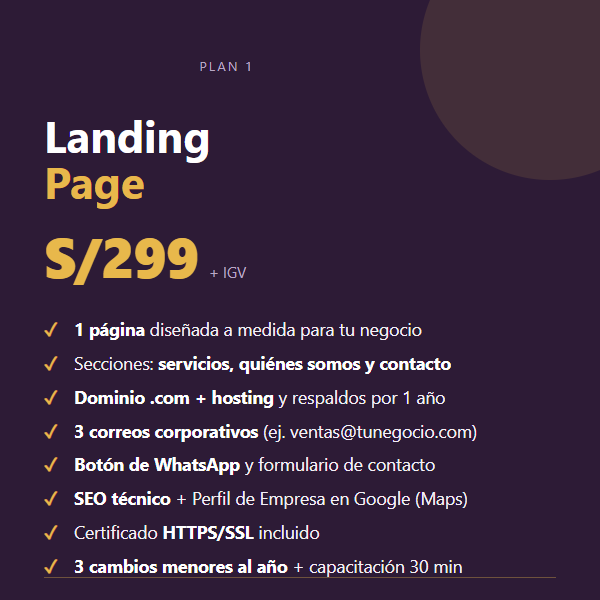
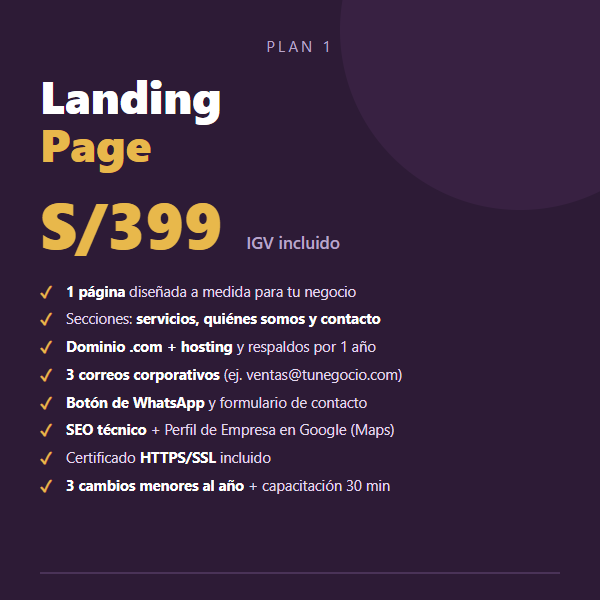
Imagenes de planes v2 (S/399/599/799 IGV incluido) + generador

diff --git a/assets/marketing/planes-v2.html b/assets/marketing/planes-v2.html
@@ -1,0 +1,69 @@
+<!doctype html><html lang="es"><head><meta charset="utf-8">
+<style>
+*{margin:0;padding:0;box-sizing:border-box}
+body{background:#111;display:flex;gap:24px;padding:24px;flex-wrap:wrap}
+.card{width:600px;height:600px;background:#2D1B36;position:relative;overflow:hidden;font-family:'Segoe UI',Arial,sans-serif;padding:36px 40px 28px;display:flex;flex-direction:column}
+.circle{position:absolute;width:360px;height:360px;border-radius:50%;background:#382142;top:-150px;right:-100px}
+.plan{color:#B9A6C9;font-size:15px;letter-spacing:3px;text-align:center;margin-bottom:16px;position:relative}
+.title{font-size:46px;font-weight:800;color:#fff;line-height:1.04;position:relative}
+.title span{color:#E8B84B}
+.price{font-size:64px;font-weight:800;color:#E8B84B;margin:12px 0 16px;position:relative}
+.price small{font-size:17px;color:#B9A6C9;font-weight:600;margin-left:6px}
+ul{list-style:none;position:relative}
+li{color:#E4D8EE;font-size:14.6px;line-height:1.42;margin-bottom:7px;padding-left:26px;position:relative}
+li:before{content:"\2713";position:absolute;left:0;top:0;color:#E8B84B;font-weight:800;font-size:16px}
+li b{color:#FFFFFF}
+.line{position:absolute;left:40px;right:40px;bottom:26px;height:2px;background:#4A3358}
+</style></head><body>
+<div class="card" id="c1">
+  <div class="circle"></div>
+  <div class="plan">PLAN 1</div>
+  <div class="title">Landing<br><span>Page</span></div>
+  <div class="price">S/399 <small>IGV incluido</small></div>
+  <ul>
+    <li><b>1 p&aacute;gina</b> dise&ntilde;ada a medida para tu negocio</li>
+    <li>Secciones: <b>servicios, qui&eacute;nes somos y contacto</b></li>
+    <li><b>Dominio .com + hosting</b> y respaldos por 1 a&ntilde;o</li>
+    <li><b>3 correos corporativos</b> (ej. ventas@tunegocio.com)</li>
+    <li><b>Bot&oacute;n de WhatsApp</b> y formulario de contacto</li>
+    <li><b>SEO t&eacute;cnico</b> + Perfil de Empresa en Google (Maps)</li>
+    <li>Certificado <b>HTTPS/SSL</b> incluido</li>
+    <li><b>3 cambios menores al a&ntilde;o</b> + capacitaci&oacute;n 30 min</li>
+  </ul>
+  <div class="line"></div>
+</div>
+<div class="card" id="c2">
+  <div class="circle"></div>
+  <div class="plan">PLAN 2</div>
+  <div class="title">Web<br><span>Corporativa</span></div>
+  <div class="price">S/599 <small>IGV incluido</small></div>
+  <ul>
+    <li>Hasta <b>5 secciones</b> (inicio, servicios, nosotros, proyectos, contacto)</li>
+    <li><b>Dise&ntilde;o a medida</b> adaptado a celular, tablet y PC</li>
+    <li><b>Dominio .com + hosting</b> (30 GB) y respaldos por 1 a&ntilde;o</li>
+    <li><b>3 correos corporativos</b> (ej. ventas@tunegocio.com)</li>
+    <li><b>Bot&oacute;n de WhatsApp</b> y formulario de contacto</li>
+    <li><b>SEO t&eacute;cnico</b> + Perfil de Empresa en Google (Maps)</li>
+    <li>Certificado <b>HTTPS/SSL</b> incluido</li>
+    <li><b>3 cambios menores al a&ntilde;o</b> + capacitaci&oacute;n 30 min</li>
+  </ul>
+  <div class="line"></div>
+</div>
+<div class="card" id="c3">
+  <div class="circle"></div>
+  <div class="plan">PLAN 3</div>
+  <div class="title">Tienda<br><span>Virtual</span></div>
+  <div class="price">S/799 <small>IGV incluido</small></div>
+  <ul>
+    <li><b>Carrito de compras</b> con hasta <b>30 productos</b></li>
+    <li>Categor&iacute;as y <b>ficha de cada producto</b> (foto, precio, stock)</li>
+    <li><b>Pagos con tarjeta</b> (Izipay/Niubiz) o <b>pedido por WhatsApp</b></li>
+    <li><b>Dominio .com + hosting</b> y respaldos por 1 a&ntilde;o</li>
+    <li><b>3 correos corporativos</b> (ej. ventas@tunegocio.com)</li>
+    <li><b>Bot&oacute;n de WhatsApp</b> y formulario de contacto</li>
+    <li><b>SEO t&eacute;cnico</b> + Perfil de Empresa en Google (Maps)</li>
+    <li><b>Capacitaci&oacute;n</b> para gestionar tus pedidos y productos</li>
+  </ul>
+  <div class="line"></div>
+</div>
+</body></html>
